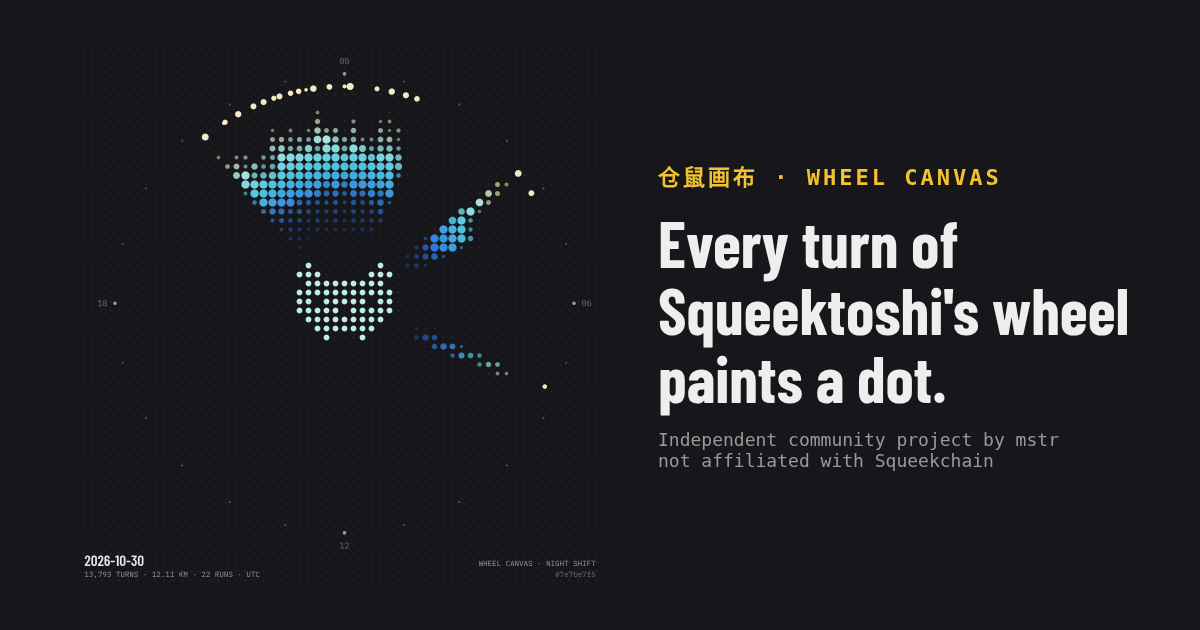
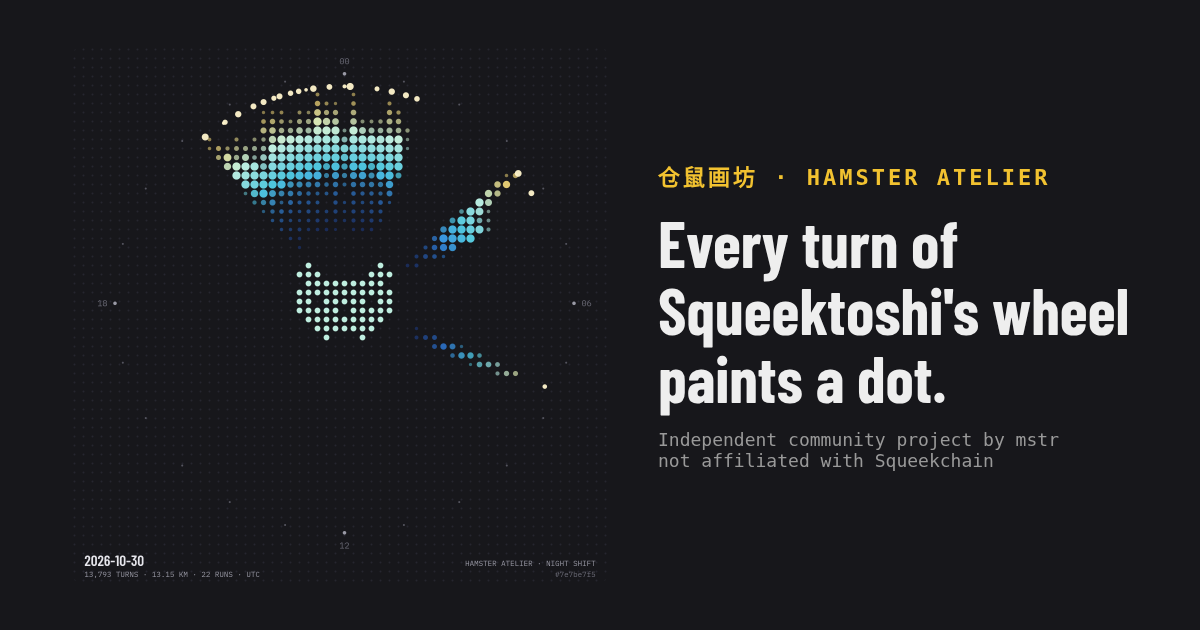
Rename to Hamster Atelier · 仓鼠画坊

diff --git a/src/i18n.js b/src/i18n.js
@@ -1,10 +1,10 @@
 const dict = {
   en: {
-    brand: 'Wheel Canvas', brandSub: '仓鼠画布',
+    brand: 'Hamster Atelier', brandSub: '仓鼠画坊',
     navToday: 'Today', navGallery: 'Gallery', navHow: "How it's drawn", navOverlay: 'OBS overlay',
     heroKicker: 'Live generative art from a hamster-powered blockchain',
     heroTitle: "Every turn of Squeektoshi's wheel paints a dot.",
-    heroBody: "Squeekchain's hamster runs on a real wheel; each magnet passage is one unit of proof-of-work. Wheel Canvas reads those exact passage times from the public API and paints one deterministic dot-grid picture per UTC day. Same data, same painting — forever.",
+    heroBody: "Squeekchain's hamster runs on a real wheel; each magnet passage is one unit of proof-of-work. Hamster Atelier reads those exact passage times from the public API and paints one deterministic dot-grid picture per UTC day. Same data, same painting — forever.",
     todayTitle: "Today's painting", liveGrowing: 'Growing live', finished: 'Finished',
     stRunning: 'Running', stResting: 'Resting', stAsleep: 'Asleep', stOffline: 'Device offline', stUnknown: 'Connecting…',
     stRunningD: 'Squeektoshi is on the wheel right now.', stRestingD: 'Short break — last turn {ago}.', stAsleepD: 'Napping. Last turn {ago}.', stOfflineD: 'The wheel sensor has not reported for over 2 minutes.', stUnknownD: 'Reading the wheel…',
@@ -16,8 +16,8 @@ const dict = {
     galleryTitle: 'Gallery', gallerySub: 'One painting per UTC day since the wheel went live on 2026-10-26. Thumbnails are rendered in your browser from the raw data.',
     hourly: 'Turns per hour (UTC)', runsList: 'Runs', run: 'Run', prev: '← Previous', next: 'Next →', back: '← Back to day',
     noData: 'No wheel turns recorded yet for this day.', loading: 'Loading wheel data…', catching: 'Catching up with the wheel…',
-    shareDayText: 'Squeektoshi painted {date} with {n} wheel turns ({km} km) 🐹🎨 #Squeekchain #WheelCanvas',
-    shareRunText: 'Run #{i} on {date}: {n} turns at up to {peak} m/s 🐹💨 #Squeekchain #WheelCanvas',
+    shareDayText: 'Squeektoshi painted {date} with {n} wheel turns ({km} km) 🐹🎨 #Squeekchain #HamsterAtelier',
+    shareRunText: 'Run #{i} on {date}: {n} turns at up to {peak} m/s 🐹💨 #Squeekchain #HamsterAtelier',
     footer: 'Independent community project by mstr, not affiliated with Squeekchain.',
     footerData: 'Data: public Squeekchain API (Sepolia testnet, device evidence, display only). No wallet, no sign-in, no tracking.',
     source: 'Source code', utcNote: 'All days and times are UTC, matching the Squeekchain API.',
@@ -45,7 +45,7 @@ const dict = {
     predResultCap: 'Round #{round} · your painting', predBull: 'Bullseye',
     predYour: 'Your guess', predTheirs: 'Guess', predActual: 'Actual turns', predAcc: 'Accuracy', predOff: 'Off by',
     predPermalink: 'Permalink',
-    predShareText: 'I guessed Squeektoshi would run {guess} turns in round #{round}. Actual: {actual}. {acc}% accurate 🐹🎯 #Squeekchain #WheelCanvas',
+    predShareText: 'I guessed Squeektoshi would run {guess} turns in round #{round}. Actual: {actual}. {acc}% accurate 🐹🎯 #Squeekchain #HamsterAtelier',
     predCount: 'Predictions', predPendingN: '{n} waiting', predAvg: 'Avg accuracy', predBest: 'best {v}%', predStreak: 'Streak', predStreakS: 'rounds in a row ≥ 80% · best {best}', predBulls: 'Bullseyes',
     predEmpty: 'No predictions yet.', predGuessShort: 'guess', predActualShort: 'actual', predPendingShort: 'pending', predVoidShort: 'unavailable',
     predSharedTitle: 'A prediction painting · round #{round}', predSharedLead: 'Painted from the round\'s real wheel passages and this guess. Same round + same guess = same painting, on any computer.',
@@ -69,11 +69,11 @@ const dict = {
     ovTurnsToday: 'turns today', ovRound: 'Round', ovThisRound: 'turns this round',
   },
   zh: {
-    brand: '仓鼠画布', brandSub: 'Wheel Canvas',
+    brand: '仓鼠画坊', brandSub: 'Hamster Atelier',
     navToday: '今日', navGallery: '画廊', navHow: '画法说明', navOverlay: 'OBS 叠加层',
     heroKicker: '来自仓鼠驱动区块链的实时生成艺术',
     heroTitle: 'Squeektoshi 跑轮每转一圈，画布上就多一个点。',
-    heroBody: 'Squeekchain 的仓鼠在真实的跑轮上奔跑，每一次磁铁经过就是一份工作量证明。仓鼠画布从公开 API 读取每一次经过的精确时间，按 UTC 日绘制一幅确定性的点阵画。同样的数据，永远是同一幅画。',
+    heroBody: 'Squeekchain 的仓鼠在真实的跑轮上奔跑，每一次磁铁经过就是一份工作量证明。仓鼠画坊从公开 API 读取每一次经过的精确时间，按 UTC 日绘制一幅确定性的点阵画。同样的数据，永远是同一幅画。',
     todayTitle: '今日画作', liveGrowing: '实时生长中', finished: '已完成',
     stRunning: '正在跑', stResting: '休息中', stAsleep: '睡觉中', stOffline: '设备离线', stUnknown: '连接中…',
     stRunningD: 'Squeektoshi 此刻正在跑轮上。', stRestingD: '小憩一下 —— 最后一圈在 {ago}。', stAsleepD: '在打盹。最后一圈在 {ago}。', stOfflineD: '跑轮传感器已超过 2 分钟没有上报。', stUnknownD: '正在读取跑轮…',
@@ -85,8 +85,8 @@ const dict = {
     galleryTitle: '画廊', gallerySub: '从 2026-10-26 跑轮上线起，每个 UTC 日一幅画。缩略图由你的浏览器根据原始数据实时绘制。',
     hourly: '每小时圈数（UTC）', runsList: '跑步记录', run: '跑步', prev: '← 上一个', next: '下一个 →', back: '← 返回当天',
     noData: '这一天还没有跑轮记录。', loading: '正在加载跑轮数据…', catching: '正在追上最新的跑轮数据…',
-    shareDayText: 'Squeektoshi 在 {date} 跑了 {n} 圈（{km} 公里），画出了这幅画 🐹🎨 #Squeekchain #WheelCanvas',
-    shareRunText: '{date} 第 {i} 次跑步：{n} 圈，最高 {peak} 米/秒 🐹💨 #Squeekchain #WheelCanvas',
+    shareDayText: 'Squeektoshi 在 {date} 跑了 {n} 圈（{km} 公里），画出了这幅画 🐹🎨 #Squeekchain #HamsterAtelier',
+    shareRunText: '{date} 第 {i} 次跑步：{n} 圈，最高 {peak} 米/秒 🐹💨 #Squeekchain #HamsterAtelier',
     footer: 'mstr 制作的独立社区项目，与 Squeekchain 官方无关。',
     footerData: '数据：Squeekchain 公开 API（Sepolia 测试网，设备证据，仅供展示）。不连接钱包、不需要登录、不追踪。',
     source: '源代码', utcNote: '所有日期和时间均为 UTC，与 Squeekchain API 一致。',
@@ -114,7 +114,7 @@ const dict = {
     predResultCap: '第 #{round} 轮 · 你的画', predBull: '正中靶心',
     predYour: '你的预测', predTheirs: '预测', predActual: '实际圈数', predAcc: '准确率', predOff: '偏差',
     predPermalink: '固定链接',
-    predShareText: '我猜 Squeektoshi 第 #{round} 轮会跑 {guess} 圈，实际 {actual} 圈，准确率 {acc}% 🐹🎯 #Squeekchain #WheelCanvas',
+    predShareText: '我猜 Squeektoshi 第 #{round} 轮会跑 {guess} 圈，实际 {actual} 圈，准确率 {acc}% 🐹🎯 #Squeekchain #HamsterAtelier',
     predCount: '预测次数', predPendingN: '{n} 个待结算', predAvg: '平均准确率', predBest: '最高 {v}%', predStreak: '连续命中', predStreakS: '连续 ≥ 80% 的轮数 · 最长 {best}', predBulls: '正中靶心',
     predEmpty: '还没有预测。', predGuessShort: '猜', predActualShort: '实际', predPendingShort: '待结算', predVoidShort: '不可用',
     predSharedTitle: '预测画 · 第 #{round} 轮', predSharedLead: '由这一轮真实的跑轮经过数据和这个预测共同画成。同一轮 + 同一个预测 = 同一幅画，在任何电脑上都一样。',

diff --git a/src/art.js b/src/art.js
@@ -127,7 +127,7 @@ export function dayScene(date, t, a, opts = {}) {
   if (!opts.bare) {
     prims.push({ t: 'text', x: C * 1.6, y: H - C * 2.1, s: 30, fill: '#E6E6EC', txt: date, anchor: 'start', font: 'display', weight: 600 });
     prims.push({ t: 'text', x: C * 1.6, y: H - C * 0.9, s: 15, fill: '#9A9AA6', txt: `${fmtInt(a.passages)} TURNS · ${(a.distanceM / 1000).toFixed(2)} KM · ${a.runs.length} RUNS · UTC`, anchor: 'start', font: 'mono' });
-    prims.push({ t: 'text', x: W - C * 1.6, y: H - C * 2.1, s: 15, fill: '#9A9AA6', txt: `WHEEL CANVAS · ${pal.name.toUpperCase()}`, anchor: 'end', font: 'mono' });
+    prims.push({ t: 'text', x: W - C * 1.6, y: H - C * 2.1, s: 15, fill: '#9A9AA6', txt: `HAMSTER ATELIER · ${pal.name.toUpperCase()}`, anchor: 'end', font: 'mono' });
     prims.push({ t: 'text', x: W - C * 1.6, y: H - C * 0.9, s: 15, fill: '#6E6E7A', txt: `#${a.fingerprint}`, anchor: 'end', font: 'mono' });
   }
   return { w: W, h: H, bg: opts.transparent ? null : BG, prims, palette: pal };
@@ -174,7 +174,7 @@ export function runScene(date, t, a, run, opts = {}) {
     prims.push({ t: 'text', x: C * 2, y: C * 2.3, s: 30, fill: '#E6E6EC', txt: `RUN #${run.index} · ${date}`, anchor: 'start', font: 'display', weight: 600 });
     prims.push({ t: 'text', x: W - C * 2, y: C * 2.3, s: 15, fill: '#9A9AA6', txt: `${hhmm(run.start)}–${hhmm(run.end)} UTC`, anchor: 'end', font: 'mono' });
     prims.push({ t: 'text', x: C * 2, y: H - C * 2.2, s: 15, fill: '#9A9AA6', txt: `${fmtInt(run.n)} TURNS · ${run.distanceM.toFixed(0)} M · AVG ${run.avgSpeed.toFixed(2)} M/S · PEAK ${run.peakSpeed.toFixed(2)} M/S`, anchor: 'start', font: 'mono' });
-    prims.push({ t: 'text', x: W - C * 2, y: H - C * 2.2, s: 15, fill: '#6E6E7A', txt: `WHEEL CANVAS · #${a.fingerprint}`, anchor: 'end', font: 'mono' });
+    prims.push({ t: 'text', x: W - C * 2, y: H - C * 2.2, s: 15, fill: '#6E6E7A', txt: `HAMSTER ATELIER · #${a.fingerprint}`, anchor: 'end', font: 'mono' });
   }
   return { w: W, h: H, bg: opts.transparent ? null : BG, prims, palette: pal };
 }
@@ -206,7 +206,7 @@ export function drawScene(canvas, scene, cssWidth, dprOverride) {
 }
 
 const esc = (s) => String(s).replace(/[&<>"]/g, (c) => ({ '&': '&amp;', '<': '&lt;', '>': '&gt;', '"': '&quot;' })[c]);
-export function sceneToSVG(scene, title = 'Wheel Canvas') {
+export function sceneToSVG(scene, title = 'Hamster Atelier') {
   const r1 = (x) => Math.round(x * 10) / 10;
   const out = [`<svg xmlns="http://www.w3.org/2000/svg" viewBox="0 0 ${scene.w} ${scene.h}" width="${scene.w}" height="${scene.h}">`, `<title>${esc(title)}</title>`];
   if (scene.bg) out.push(`<rect width="100%" height="100%" fill="${scene.bg}"/>`);
@@ -295,7 +295,7 @@ export function predictionScene(p, t, v, opts = {}) {
     const date = new Date(p.start).toISOString().slice(0, 10);
     prims.push({ t: 'text', x: C * 1.6, y: H - C * 2.1, s: 30, fill: '#E6E6EC', txt: `ROUND #${p.round} · ${date} ${hm(p.start)}–${hm(p.end)} UTC`, anchor: 'start', font: 'display', weight: 600 });
     prims.push({ t: 'text', x: C * 1.6, y: H - C * 0.9, s: 15, fill: '#9A9AA6', txt: `GUESS ${fmtInt(p.guess)} · ACTUAL ${fmtInt(p.actual)} TURNS · ${acc.toFixed(1)}%${bull ? ' · BULLSEYE' : ''}`, anchor: 'start', font: 'mono' });
-    prims.push({ t: 'text', x: W - C * 1.6, y: H - C * 2.1, s: 15, fill: '#9A9AA6', txt: `WHEEL CANVAS · PREDICTION · ${pal.name.toUpperCase()}`, anchor: 'end', font: 'mono' });
+    prims.push({ t: 'text', x: W - C * 1.6, y: H - C * 2.1, s: 15, fill: '#9A9AA6', txt: `HAMSTER ATELIER · PREDICTION · ${pal.name.toUpperCase()}`, anchor: 'end', font: 'mono' });
     prims.push({ t: 'text', x: W - C * 1.6, y: H - C * 0.9, s: 15, fill: '#6E6E7A', txt: `#${(seed >>> 0).toString(16).padStart(8, '0')}`, anchor: 'end', font: 'mono' });
   }
   return { w: W, h: H, bg: BG, prims, palette: pal };

diff --git a/src/main.js b/src/main.js
@@ -83,7 +83,7 @@ function shell(content, active) {
   app.innerHTML = '';
   app.append(h(`
   <header class="top">
-    <a class="logo" href="#/" aria-label="Wheel Canvas home">
+    <a class="logo" href="#/" aria-label="Hamster Atelier home">
       <svg viewBox="0 0 10 10" width="28" height="28" aria-hidden="true">${logoDots()}</svg>
       <span><b>${esc(t('brand'))}</b><small>${esc(t('brandSub'))}</small></span>
     </a>
@@ -166,8 +166,8 @@ async function viewHome() {
         <button class="btn" id="dlPng">${esc(t('downloadPng'))}</button><button class="btn" id="dlSvg">${esc(t('downloadSvg'))}</button>
         <a class="btn" id="shareX" target="_blank" rel="noopener">${esc(t('shareX'))}</a>`;
     }
-    $('#dlPng').onclick = () => exportPNG(dayScene(date, getDay(date), analysis(date), {}), `wheel-canvas-${date}.png`);
-    $('#dlSvg').onclick = () => exportSVG(dayScene(date, getDay(date), analysis(date), {}), `wheel-canvas-${date}.svg`, `Wheel Canvas ${date}`);
+    $('#dlPng').onclick = () => exportPNG(dayScene(date, getDay(date), analysis(date), {}), `hamster-atelier-${date}.png`);
+    $('#dlSvg').onclick = () => exportSVG(dayScene(date, getDay(date), analysis(date), {}), `hamster-atelier-${date}.svg`, `Hamster Atelier ${date}`);
     $('#shareX').href = xIntent(t('shareDayText', { date, n: fmt(a.passages), km: fmt(a.distanceM / 1000, 2) }), siteUrl(`#/day/${date}`));
     void scene;
   };
@@ -253,8 +253,8 @@ async function viewDay(date) {
     <section class="band"><h2>${esc(t('hourly'))}</h2>${hourlyHTML(a.hours)}</section>
     <section class="band"><h2>${esc(t('runsList'))} <span class="muted">(${a.runs.length})</span></h2>${runsTable(date, a)}</section>`;
     paintDay($('#dayArt'), date, $('#dayArt').clientWidth);
-    $('#dlPng').onclick = () => exportPNG(dayScene(date, getDay(date), analysis(date), {}), `wheel-canvas-${date}.png`);
-    $('#dlSvg').onclick = () => exportSVG(dayScene(date, getDay(date), analysis(date), {}), `wheel-canvas-${date}.svg`, `Wheel Canvas ${date}`);
+    $('#dlPng').onclick = () => exportPNG(dayScene(date, getDay(date), analysis(date), {}), `hamster-atelier-${date}.png`);
+    $('#dlSvg').onclick = () => exportSVG(dayScene(date, getDay(date), analysis(date), {}), `hamster-atelier-${date}.svg`, `Hamster Atelier ${date}`);
   };
   render();
   if (date === today()) unsub = onData(throttle(render, 3000));
@@ -301,8 +301,8 @@ async function viewRun(date, idx) {
     <a class="btn primary" target="_blank" rel="noopener" href="${xIntent(t('shareRunText', { date, i: run.index, n: fmt(run.n), peak: fmt(run.peakSpeed, 2) }), siteUrl(`#/run/${date}/${run.index}`))}">${esc(t('shareX'))}</a>
   </div>`;
   drawScene($('#runArt'), scene, $('#runArt').clientWidth);
-  $('#dlPng').onclick = () => exportPNG(scene, `wheel-canvas-${date}-run${run.index}.png`);
-  $('#dlSvg').onclick = () => exportSVG(scene, `wheel-canvas-${date}-run${run.index}.svg`, `Wheel Canvas ${date} run ${run.index}`);
+  $('#dlPng').onclick = () => exportPNG(scene, `hamster-atelier-${date}-run${run.index}.png`);
+  $('#dlSvg').onclick = () => exportSVG(scene, `hamster-atelier-${date}-run${run.index}.svg`, `Hamster Atelier ${date} run ${run.index}`);
 }
 
 async function viewHow() {

diff --git a/index.html b/index.html
@@ -12,13 +12,13 @@
     <!-- SQUEEKCHAIN_PAGE_TAG_PLACEHOLDER -->
     <!-- ================== END SQUEEKCHAIN PAGE TAG ================== -->
 
-    <title>Wheel Canvas · 仓鼠画布 — Squeektoshi's wheel runs as generative art</title>
+    <title>Hamster Atelier · 仓鼠画坊 — Squeektoshi's wheel runs as generative art</title>
     <meta name="description" content="Live, deterministic dot-grid paintings made from every turn of Squeektoshi's wheel on Squeekchain. Independent community project by mstr." />
     <link rel="icon" href="/favicon.svg" type="image/svg+xml" />
     <link rel="canonical" href="https://mstrsqueek.xyz/" />
     <meta property="og:type" content="website" />
-    <meta property="og:site_name" content="Wheel Canvas" />
-    <meta property="og:title" content="Wheel Canvas · 仓鼠画布" />
+    <meta property="og:site_name" content="Hamster Atelier" />
+    <meta property="og:title" content="Hamster Atelier · 仓鼠画坊" />
     <meta property="og:description" content="Every turn of Squeektoshi's wheel paints a dot. One deterministic painting per day, live." />
     <meta property="og:url" content="https://mstrsqueek.xyz/" />
     <meta property="og:image" content="https://mstrsqueek.xyz/og.png" />
@@ -30,7 +30,7 @@
     <link rel="stylesheet" href="https://fonts.googleapis.com/css2?family=Barlow+Condensed:wght@300;600&family=IBM+Plex+Mono:wght@400;500&display=swap" />
   </head>
   <body>
-    <div id="app"><noscript>Wheel Canvas needs JavaScript to paint from live data.</noscript></div>
+    <div id="app"><noscript>Hamster Atelier needs JavaScript to paint from live data.</noscript></div>
     <script type="module" src="/src/main.js"></script>
   </body>
 </html>

diff --git a/src/predict.js b/src/predict.js
@@ -230,7 +230,7 @@ export async function viewPredict(ctx, args = []) {
       <div class="actions"><button class="btn" id="pPng">${esc(t('downloadPng'))}</button>
         <a class="btn primary" target="_blank" rel="noopener" href="${xIntent(t('predShareText', { round: it.round, guess: fmt(it.guess), actual: fmt(it.actual), acc: fmt(it.acc, 1) }), link)}">${esc(t('shareX'))}</a>
         <a class="btn" href="${esc(link.replace(location.origin + '/', ''))}">${esc(t('predPermalink'))}</a></div>`;
-    $('#pPng').onclick = () => exportPNG(scene, `wheel-canvas-round-${it.round}-guess-${it.guess}.png`);
+    $('#pPng').onclick = () => exportPNG(scene, `hamster-atelier-round-${it.round}-guess-${it.guess}.png`);
   }
 
   function renderHistory() {
@@ -308,5 +308,5 @@ async function viewShared(ctx, args) {
   $('#shCap').textContent = `${new Date(win.start).toISOString().slice(0, 16).replace('T', ' ')} UTC · ${scene.palette.name}`;
   $('#shSide').innerHTML = `<div class="stats stats-2">${stat(t('predTheirs'), fmt(guess))}${stat(t('predActual'), fmt(item.actual))}${stat(t('predAcc'), fmt(item.acc, 1) + '%')}${stat(t('predOff'), (guess - item.actual > 0 ? '+' : '') + fmt(guess - item.actual), item.acc >= 95 ? '🎯 ' + esc(t('predBull')) : '')}</div>
     <div class="actions"><button class="btn" id="shPng">${esc(t('downloadPng'))}</button><a class="btn primary" href="#/predict">${esc(t('predTryOwn'))}</a></div>`;
-  $('#shPng').onclick = () => exportPNG(scene, `wheel-canvas-round-${round}-guess-${guess}.png`);
+  $('#shPng').onclick = () => exportPNG(scene, `hamster-atelier-round-${round}-guess-${guess}.png`);
 }

diff --git a/README.md b/README.md
@@ -1,9 +1,9 @@
-# Wheel Canvas / 仓鼠画布
+# Hamster Atelier · 仓鼠画坊
 
 **Every turn of Squeektoshi's wheel paints a dot.**
 Live site: https://mstrsqueek.xyz · Source: https://github.com/15665322008/wheel-canvas
 
-Wheel Canvas turns the real wheel runs of Squeektoshi, the hamster behind
+Hamster Atelier turns the real wheel runs of Squeektoshi, the hamster behind
 [Squeekchain](https://squeekchain.com), into deterministic generative art. Each
 magnet passage the wheel sensor records is one unit of proof-of-work. This site
 reads those exact passage timestamps from the public Squeekchain API and paints
